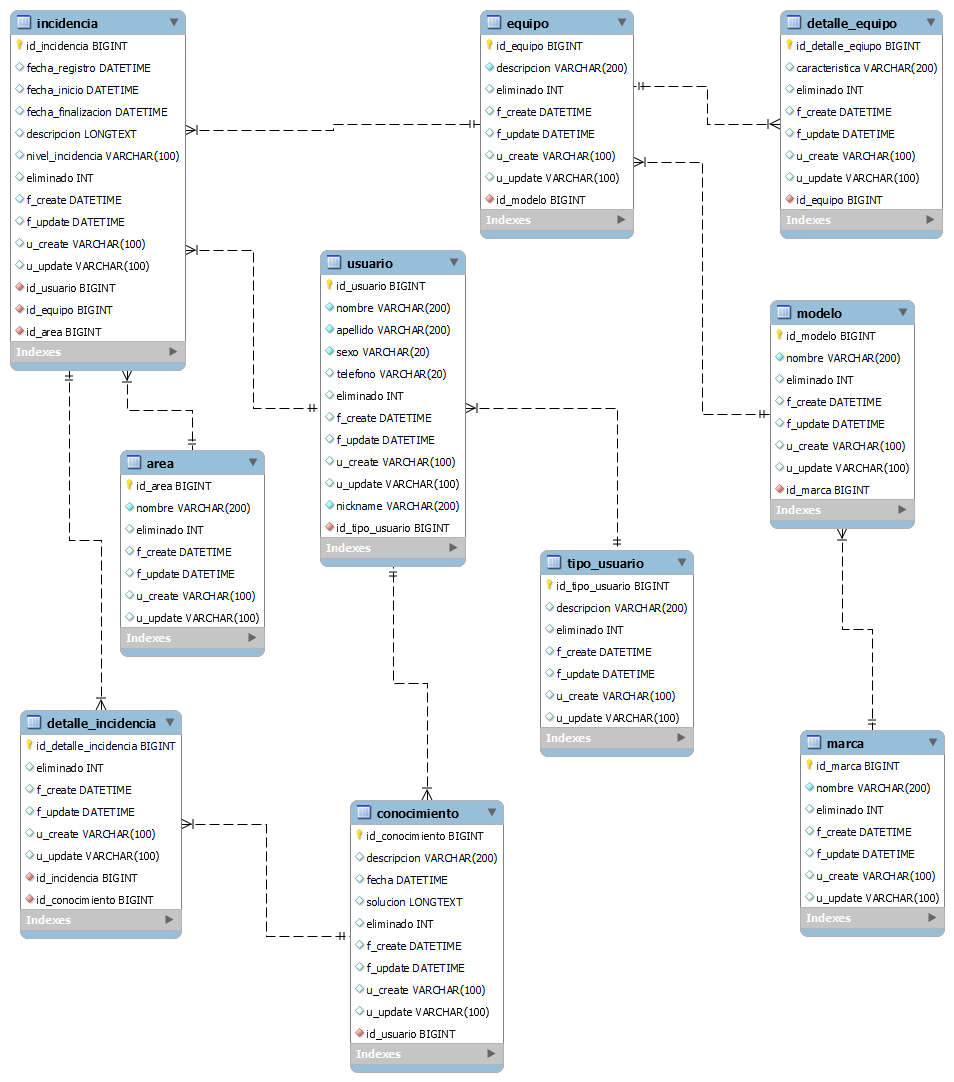
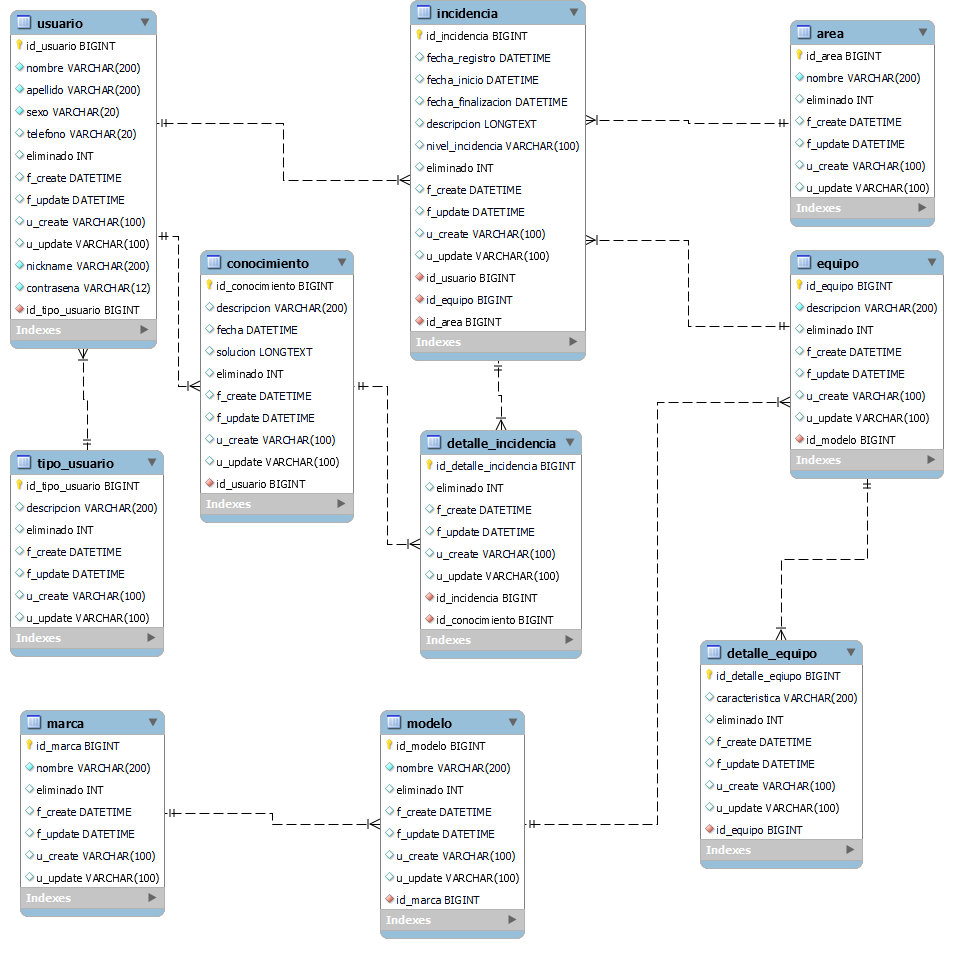
rediseño de bd version 0.2

diff --git a/src/apiService/modelo/model.js b/src/apiService/modelo/model.js
@@ -15,8 +15,8 @@ const Modelo = function (modelo) {
 
 Modelo.create = (newModelo, result) => {
  
-  const query = `INSERT INTO modelo(nombre,eliminado,f_create,f_update,u_create,u_update,marca_id_marca) 
-                             values ('${newModelo.nombre}', '${newModelo.eliminado}', NOW(), NOW(), '${newModelo.u_create}', '${newModelo.u_update}',${newModelo.id_marca});`
+  const query = `INSERT INTO modelo(nombre,u_create,id_marca) 
+                             values ('${newModelo.nombre}', '${newModelo.u_create}',${newModelo.id_marca});`
 
   sql.query(query, (err, res) => {
     if (err) {

diff --git a/src/apiService/marca/model.js b/src/apiService/marca/model.js
@@ -15,8 +15,8 @@ const Marca = function (marca) {
 
 Marca.create = (newMarca, result) => {
 
-  const query = `INSERT INTO marca(nombre,eliminado,f_create,f_update,u_create,u_update) 
-                             values ('${newMarca.nombre}', '${newMarca.eliminado}', NOW(), NOW(), '${newMarca.u_create}', '${newMarca.u_update}');`
+  const query = `INSERT INTO marca(nombre,u_create) 
+                             values ('${newMarca.nombre}', '${newMarca.u_create}');`
 
   sql.query(query, (err, res) => {
     if (err) {

diff --git a/src/apiService/marca/controller.js b/src/apiService/marca/controller.js
@@ -13,9 +13,9 @@ exports.create = (req, res) => {
   // Create a Marca
   const marca = new Marca({
     nombre: req.body.nombre,
-    eliminado: req.body.eliminado,
+    //eliminado: req.body.eliminado,
     u_create: req.body.u_create,
-    u_update: req.body.u_update
+    //u_update: req.body.u_update
   });
 
   // validate repeated

diff --git a/src/routes/routesMarca.js b/src/routes/routesMarca.js
@@ -38,7 +38,7 @@ const swaggerUi = require('swagger-ui-express');
  *        - u_create
  *      example:
  *        nombre: HP
- *        eliminado: 2
+ *        eliminado: 0
  *        f_create: 2022-01-18 22:43:09
  *        f_update: 2022-01-18 22:43:09
  *        u_create: rbueno
